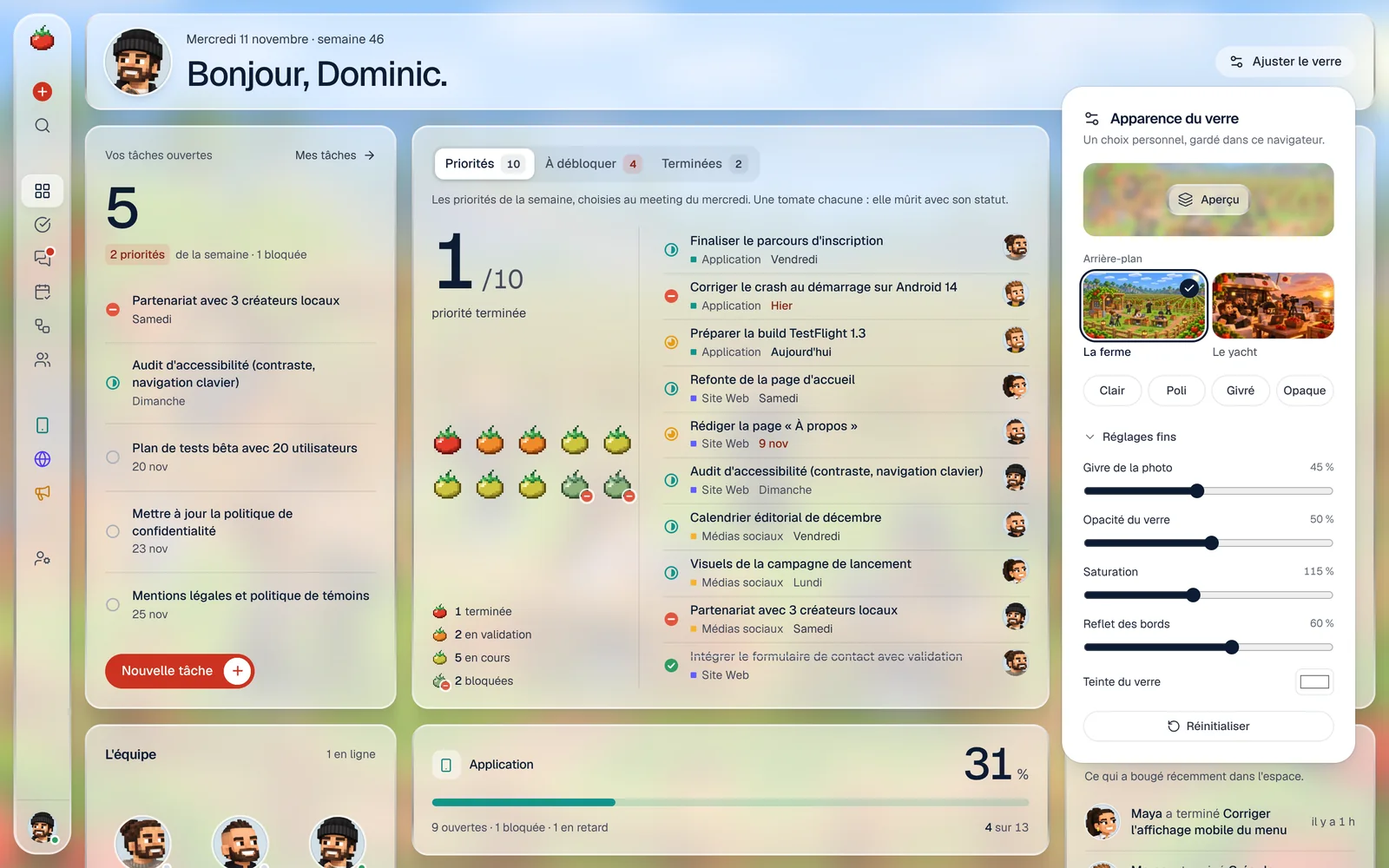
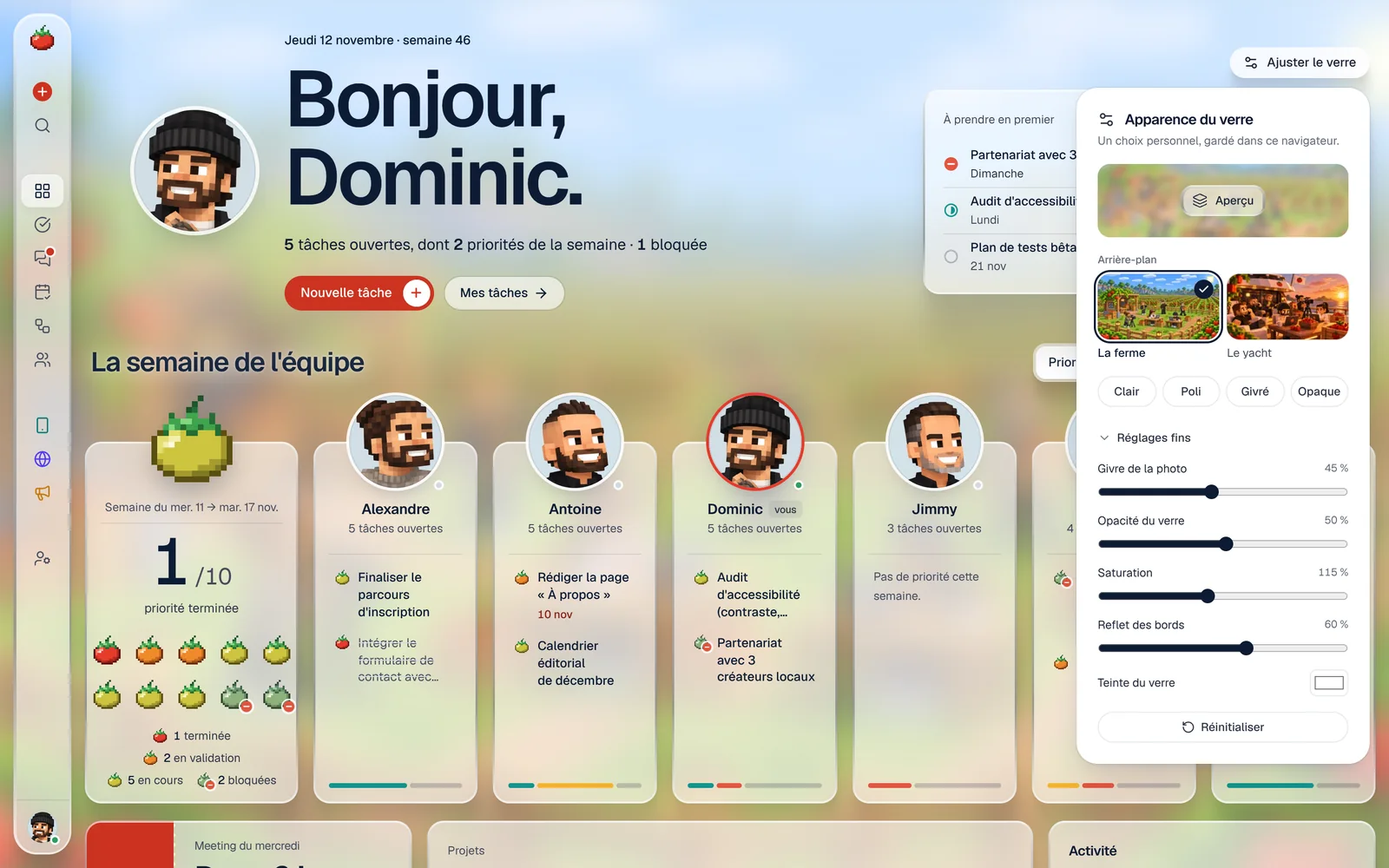
Docs: the dashboard as a page of three bands; screenshots retaken
DESIGN.md describes the greeting set on the picture, the team's week as a
line-up of cards under three tabs (with the load bar and its legend), and the
foot (the meeting as a ticket, the projects in columns, the activity); the
type scale, the brand and colour tables, the components and the references
follow. The contrast figures are measured again on the eight screens and both
scenes. README: the dashboard in one paragraph, the test list.

Claude-Session: https://claude.ai/code/session_01FogaosSJpqDW3pFqCh4GHN

diff --git a/docs/DESIGN.md b/docs/DESIGN.md
@@ -38,32 +38,31 @@ Au repos, la navigation est un rail d'icônes : le contenu a toute la place. On 
 
 ### Dashboard — « où en est-on ? »
 
-Un bento de tuiles de verre posées **directement sur l'image** : pas de feuille derrière elles, jamais de verre sur du verre. Chaque tuile est le verre (son anneau, sa face claire, son ombre) ; la photo, givrée, se voit entre les tuiles comme à travers elles. Le bento occupe toute la zone à côté de la navigation et s'aligne sur elle : même haut, même bas, et le même écart de 14 px que la fenêtre des autres écrans. Sur un écran haut, la dernière rangée prend la place qui reste ; sur un écran plus court, le bento défile sous une navigation qui ne bouge pas.
+Une page en **trois bandes qui ne se ressemblent pas**, posée directement sur l'image : pas de feuille derrière elle, jamais de verre sur du verre. La version d'avant était un mur de tuiles : chaque section était une boîte contenant une liste, tout parlait sur le même ton, et rien ne disait par où commencer. Ici chaque bande a sa forme : une phrase, puis des gens, puis trois objets. La page occupe toute la zone à côté de la navigation et s'aligne sur elle : même haut, même bas, et le même écart de 14 px que la fenêtre des autres écrans. Sur un écran haut, la salutation et le pied se partagent la place qui reste ; sur un écran plus court, la page défile sous une navigation qui ne bouge pas.
 
-**Chaque tuile a sa forme et sa façon de parler.** Un tableau de bord dont toutes les sections sont la même tuile contenant une liste se lit mal : rien n'y dit par où commencer. Ici, trois colonnes de lecture : moi et l'équipe à gauche, la semaine et les projets au milieu (deux fois plus large), le meeting et l'activité à droite. Quatre colonnes de grille à partir de 1280 px de place, deux en dessous, une sur téléphone.
+1. **La salutation**, écrite sur l'image, sans tuile : « Bonjour, Dominic. » en très grand (jusqu'à 112 px, sur deux lignes serrées), à côté d'un grand portrait. La page s'ouvre sur une phrase, pas sur une boîte. Au-dessus, la date et la semaine ; en dessous, où j'en suis, en une ligne (« **5** tâches ouvertes, dont **2** priorités de la semaine · **1** bloquée »), puis **Nouvelle tâche**, l'action principale de la page, et le chemin vers **Mes tâches**. À droite, la seule carte de la bande, « À prendre en premier » : mes trois prochaines tâches (les priorités, puis les retards, puis ce qui est en cours), dont le statut se change sur place. Une brume blanche derrière la bande, qui s'efface vers le bas et vers la navigation, garde les petites lignes lisibles sur les deux images. L'idée vient du tableau de bord de Koloc Cloud : une salutation typographique à côté d'un portrait plutôt qu'une tuile de plus.
+2. **La semaine de l'équipe**, en alignement : d'abord **la tomate de la semaine** (aussi mûre que la semaine est avancée ; sa carte porte le score), puis **une carte par partenaire**. Chaque tête — la tomate, un visage — dépasse de moitié au-dessus de sa carte ; la mienne est cerclée de tomate. Sous le prénom et le nombre de tâches ouvertes, ce que la vue choisie contient pour la personne ; au pied, sa **barre de charge** : un segment par statut de ses tâches ouvertes (en cours, en validation, bloquée, à faire), que le survol nomme. Un visage mène aux tâches de la personne ; une tâche s'ouvre d'un clic.
 
-Le bento reste régulier : les tuiles d'une rangée ont la même hauteur, les rangées se suivent sans trou, et aucune tuile n'est à moitié vide. Une tuile remplit la place qu'elle a avec son propre contenu : la liste des priorités donne sa hauteur à sa rangée, et les listes voisines montrent autant de lignes entières qu'il en tient (`.gw-fit`). Les lignes qui n'ont pas la place sont aussi hors du parcours clavier et des lecteurs d'écran.
+   **Trois onglets** changent ce que montrent toutes les cartes à la fois. Chacun porte son compte : la page les dit donc sans un clic.
+   - **Priorités** : le score en très grand (« 1/10 »), puis le **potager** : une tomate par priorité, qui mûrit avec son statut (verte à faire, tournante en cours, orangée en validation, rouge terminée ; pâlie et marquée du glyphe « bloqué » quand elle n'avance plus), rangées de la plus mûre à la plus verte, ce qui en fait aussi une barre d'avancement. Chaque tomate est un bouton qui ouvre sa tâche. Sur chaque carte, les priorités de la personne, chacune avec sa tomate.
+   - **À débloquer** : le nombre de tâches bloquées ou en retard dans toute l'équipe (le seul chiffre en rouge de la page : c'est celui qui demande quelque chose), ce dont il est fait, et à qui ça revient.
+   - **Terminées** : le chiffre de la semaine, celui de la semaine dernière, une barre par semaine (de mercredi à mardi) sur six semaines, la semaine en cours en teal, et qui a terminé quoi.
 
-1. **Salutation** : sur toute la largeur, avec le portrait de la personne, la date et la semaine, et « Ajuster le verre ».
-2. **Vos tâches ouvertes** : un grand chiffre, ce qu'il contient (priorités, retards, blocages), les tâches à prendre en premier (priorités, puis retards, puis ce qui est en cours) et **Nouvelle tâche**, l'action principale de la page.
-3. **La semaine de l'équipe**, la tuile autour de laquelle la page est construite. Elle se regarde de trois façons, par **trois onglets** qui portent chacun leur compte (la page les dit donc sans un clic), et chaque vue mène avec son grand chiffre :
-   - **Priorités** : le score en très grand (« 1/10 »), puis le **potager** : une tomate par priorité, qui mûrit avec son statut (verte à faire, tournante en cours, orangée en validation, rouge terminée ; pâlie et marquée du glyphe « bloqué » quand elle n'avance plus), rangées de la plus mûre à la plus verte, ce qui en fait aussi une barre d'avancement. Chaque tomate est un bouton qui ouvre sa tâche. À côté, la légende et la liste : statut (le glyphe se clique pour le changer), titre, projet, échéance, responsable. Changer un statut dans la liste fait mûrir la tomate.
-   - **À débloquer** : le nombre de tâches bloquées ou en retard dans toute l'équipe (le seul chiffre en rouge de la page : c'est celui qui demande quelque chose), ce dont il est fait, et les tâches, à un clic.
-   - **Terminées** : le chiffre de la semaine, celui de la semaine dernière, une barre par semaine (de mercredi à mardi) sur six semaines, la semaine en cours en teal, et ce qui a été terminé.
+   Les trois vues d'une carte sont posées l'une sur l'autre et une seule se voit : les cartes gardent la hauteur de la plus remplie, et la page ne saute pas quand on change d'onglet. Une carte montre au plus quatre tâches, puis un compte. Les tâches sans responsable ont leur propre carte, qui n'existe que s'il y en a.
+3. **Le pied** : trois objets de formes différentes, qui commencent et finissent ensemble.
+   - **Le meeting du mercredi est un billet** : sa date sur une souche tomate (le seul aplat de couleur de la page), puis dans combien de jours, les points à discuter, et l'entrée. Pendant un meeting le billet devient **sombre** (le sombre veut dire « en direct », ici comme sur la page du meeting) et montre l'horloge ; ensuite, « Terminé » et le chemin du récapitulatif.
+   - **Les projets** sur une seule feuille, en colonnes : le pourcentage en grand, une barre, les comptes (ouvertes, bloquées, en retard, « 4 sur 13 »). Côte à côte, ils se comparent d'un coup d'œil ; une colonne ouvre son projet.
+   - **L'activité** : qui a fait quoi, sur quelle tâche, et quand : un portrait, une phrase, l'heure. Elle montre autant d'événements entiers que sa hauteur le permet (`.gw-fit`) ; ceux qui n'ont pas la place sont aussi hors du parcours clavier et des lecteurs d'écran.
 
-   Les trois vues sont posées l'une sur l'autre et une seule se voit : la tuile garde la hauteur de la plus haute, et la page ne saute pas quand on change d'onglet. Sur une tuile étroite (téléphone), elles se suivent. Ces deux dernières vues ont d'abord été des tuiles à part ; réunies ici, elles laissent la page plus calme sans rien retirer.
-4. **Meeting du mercredi** : dans combien de jours, une règle de la semaine (les sept jours qui y mènent, aujourd'hui en tomate, le meeting au bout), les points à discuter, et l'entrée. Pendant un meeting la tuile devient **sombre** (le sombre veut dire « en direct », ici comme sur la page du meeting) et montre l'horloge ; ensuite, « Terminé » et le chemin du récapitulatif.
-5. **L'équipe** : un visage, un prénom, le nombre de tâches ouvertes ; un clic ouvre les tâches de la personne.
-6. **Projets** : une tuile par projet, empilées sous la semaine, avec son pourcentage en grand et une longue barre : l'une sous l'autre, les barres se comparent d'un coup d'œil. Un clic ouvre le projet. Quand la fenêtre est plus étroite, les tuiles passent côte à côte et la barre devient un anneau.
-7. **Activité** : qui a fait quoi, sur quelle tâche, et quand : un portrait, une phrase, l'heure. Elle montre autant d'événements que sa hauteur le permet.
+Quand la fenêtre est plus étroite, l'alignement passe sur plusieurs rangées (trois cartes de front, deux sur téléphone) sous la carte du score, qui prend alors toute la largeur, et le pied s'empile.
 
-Les chiffres comptent depuis zéro quand leur tuile arrive (et quand on change d'onglet), les tomates et les barres se posent l'une après l'autre, les barres des projets s'allongent ; rien de tout cela ne bouge avec « moins de mouvement ». Ce que montrent ces dessins existe aussi en mots : chaque tomate porte le titre, le statut et le responsable de sa tâche, chaque barre son compte, chaque projet « n tâches terminées sur m ». Les onglets sont de vrais onglets : les flèches passent de l'un à l'autre, et la vue qui n'est pas affichée est hors du parcours clavier et des lecteurs d'écran.
+Les deux lignes de la salutation montent de sous un cache, l'une après l'autre ; les chiffres comptent depuis zéro quand leur carte arrive (et quand on change d'onglet), les tomates et les barres se posent l'une après l'autre, les barres des projets s'allongent. Rien de tout cela ne bouge avec « moins de mouvement ». Ce que montrent ces dessins existe aussi en mots : chaque tomate porte le titre, le statut et le responsable de sa tâche, chaque barre son compte, la barre de charge sa répartition, chaque projet « n tâches terminées sur m ». Les onglets sont de vrais onglets : les flèches passent de l'un à l'autre, et la vue qui n'est pas affichée est hors du parcours clavier et des lecteurs d'écran.
 
 ![Dashboard](screenshots/dashboard.webp)
 
 ![Les deux autres vues de la semaine : à débloquer, terminées](screenshots/dashboard-onglets.webp)
 
-![Le dashboard pendant un meeting : la tuile sombre et son horloge](screenshots/dashboard-en-direct.webp)
+![Le pied du dashboard pendant un meeting : le billet sombre et son horloge](screenshots/dashboard-en-direct.webp)
 
 ### Projet — tableau et kanban
 
@@ -154,7 +153,7 @@ Hors de l'espace de travail, la scène est nette : la ferme en plein écran. Des
 
 ### Mobile
 
-Un seul bouton de menu, en haut à gauche de chaque écran : trois traits qui se replient en croix. Il ouvre la navigation en plein écran, sur une feuille de verre givré, avec des lignes à la taille du doigt. Quand le libellé d'un bouton principal n'a pas sa place (« Nouveau message », « Envoyer », « Nouveau workflow »), il se réduit à un disque tomate. La fenêtre de verre garde une petite marge autour d'elle, les tuiles du dashboard s'empilent et les quatre chiffres passent en grille 2 × 2, le tableau ne garde que le titre, le statut et le responsable, le kanban défile horizontalement. Les titres passent sur deux lignes plutôt que d'être tronqués. Les lignes de tâche s'adaptent à la largeur de leur conteneur (et non de l'écran).
+Un seul bouton de menu, en haut à gauche de chaque écran : trois traits qui se replient en croix. Il ouvre la navigation en plein écran, sur une feuille de verre givré, avec des lignes à la taille du doigt. Quand le libellé d'un bouton principal n'a pas sa place (« Nouveau message », « Envoyer », « Nouveau workflow »), il se réduit à un disque tomate. La fenêtre de verre garde une petite marge autour d'elle ; sur le dashboard la salutation rapetisse sans perdre son portrait, les cartes de l'équipe passent à deux de front sous celle du score, et le pied s'empile ; le tableau ne garde que le titre, le statut et le responsable, le kanban défile horizontalement. Les titres passent sur deux lignes plutôt que d'être tronqués. Les lignes de tâche s'adaptent à la largeur de leur conteneur (et non de l'écran).
 
 <img src="screenshots/mobile-dashboard.webp" alt="Dashboard sur téléphone" width="260" /> <img src="screenshots/mobile-menu.webp" alt="Le menu sur téléphone" width="260" /> <img src="screenshots/mobile-messages.webp" alt="Les messages sur téléphone" width="260" />
 
@@ -183,9 +182,9 @@ Du verre sur un paysage, et un contenu très sobre posé dessus. L'idée vient d
 
 | Élément de marque | Où | Règle |
 |---|---|---|
-| **Tomate** (`kit/pixel-tomato.tsx`) | Logo, préchargeur, connexion, potager des priorités de la semaine | Grille 16 × 16, dessinée en code, tailles multiples de 16. Dans le potager du dashboard il y en a une par priorité : elle **mûrit** en quatre étapes (verte → tournante → orangée → rouge) avec le statut de sa tâche. |
+| **Tomate** (`kit/pixel-tomato.tsx`) | Logo, préchargeur, connexion ; sur le dashboard, la tomate de la semaine et le potager des priorités | Grille 16 × 16, dessinée en code, tailles multiples de 16. Elle **mûrit** en quatre étapes (verte → tournante → orangée → rouge) : dans le potager il y en a une par priorité, mûre comme le statut de sa tâche ; la tomate de la semaine, en tête de l'alignement, est mûre comme la semaine est avancée. |
 | **Lettrage pixel** (`kit/pixel-text.tsx`) | Le nom, sur l'écran de connexion seulement | Alphabet 5 × 7 dessiné pixel par pixel. Jamais dans l'espace de travail. |
-| **Portraits** (`public/avatars`, `lib/avatars.ts`) | Partout où une personne apparaît : salutation, tâches, messages, équipe, navigation | Les portraits en pixel art des six partenaires, des carrés de 256 px. Un membre reçoit le sien par son nom (ou son prénom seul, quand le profil n'a que lui) ; sans portrait, l'avatar montre des initiales sur la couleur du membre. Six tailles, de 24 à 72 px : 28 px dans une ligne de tâche, 32 px dans un fil de messages, 56 à 64 px à côté de la salutation. |
+| **Portraits** (`public/avatars`, `lib/avatars.ts`) | Partout où une personne apparaît : salutation, tâches, messages, équipe, navigation | Les portraits en pixel art des six partenaires, des carrés de 256 px. Un membre reçoit le sien par son nom (ou son prénom seul, quand le profil n'a que lui) ; sans portrait, l'avatar montre des initiales sur la couleur du membre. Six tailles, de 24 à 72 px : 28 px dans une ligne de tâche, 32 px dans un fil de messages. Le dashboard les montre en grand : 84 à 168 px à côté de la salutation, 80 à 112 px en tête des cartes de l'équipe. |
 
 ![Préchargeur](screenshots/prechargeur.webp)
 
@@ -195,10 +194,10 @@ Du verre sur un paysage, et un contenu très sobre posé dessus. L'idée vient d
 |---|---|---|
 | **Scène** | `GlassBackdrop`, `.gw-scene` | La ferme (ou le yacht) en plein écran. Nette tant que le préchargeur est là, et sur l'écran de connexion. **Givrée** dès que l'application arrive : floutée (18 px), un peu plus saturée, sous un voile blanc de 40 %. C'est elle qui porte le givre, pas le verre. |
 | **Feuilles** | `.gw-glass` | La navigation et, sur tous les écrans sauf le dashboard, la fenêtre principale, en verre poli : un **anneau** métallique de 2,5 px (un dégradé vertical, blanc en haut pour la lumière, foncé aux trois quarts pour l'épaisseur, blanc en bas pour le rebond, évidé en son centre par un masque), une **face** translucide à 58 % avec une très légère diagonale, sans flou propre (on voit à travers elle la même photo givrée qu'autour), et une **ombre** en huit couches dont le flou double presque à chaque cran. Coins de 24 et 27 px. |
-| **Tuiles** | `.gw-panel` | Deux cas, pour ne jamais poser du verre sur du verre. **Sur le dashboard**, il n'y a pas de fenêtre : chaque tuile est le verre, posée sur l'image, avec le même anneau (2 px), la même face que les feuilles (58 % par défaut) et l'ombre en huit couches. **Dans une fenêtre** (messages, paramètres), une tuile n'est qu'une zone de la feuille : une face un peu plus pleine, une arête éclairée, une ombre à peine marquée, pas d'anneau. Coins de 17 px. |
+| **Tuiles** | `.gw-panel` | Deux cas, pour ne jamais poser du verre sur du verre. **Sur le dashboard**, il n'y a pas de fenêtre : chaque carte est le verre, posée sur l'image, avec le même anneau (2 px), la même face que les feuilles (58 % par défaut) et l'ombre en huit couches ; la salutation, elle, n'est sur aucun verre : elle est écrite sur l'image, sur une brume blanche. **Dans une fenêtre** (messages, paramètres), une tuile n'est qu'une zone de la feuille : une face un peu plus pleine, une arête éclairée, une ombre à peine marquée, pas d'anneau. Coins de 17 px. |
 | **Panneaux denses** | `.card-surface` | Tableaux, listes du meeting, colonnes du kanban : la même tuile, un peu plus remplie pour que le texte dense reste lisible. |
 | **En-tête de page** | `.glass` | Colle en haut de la fenêtre et floute ce qui défile dessous. |
-| **Sombre** | `.glass-dark`, `.gw-panel-live` | Réservé au meeting en direct : sa barre sur la page du meeting et sa tuile sur le dashboard. Le sombre veut dire « en direct ». |
+| **Sombre** | `.glass-dark`, `.gw-panel-live` | Réservé au meeting en direct : sa barre sur la page du meeting et son billet sur le dashboard. Le sombre veut dire « en direct ». |
 
 Tout dérive de cinq variables (`--gw-blur`, `--gw-opacity`, `--gw-saturation`, `--gw-edge`, `--gw-tint`) et d'une sixième qui s'en déduit, `--gw-scene-veil`, le voile de la photo. « Ajuster le verre » — sur le dashboard et en bas de la navigation — les règle : la scène (la ferme ou le yacht, les deux images de l'équipe), quatre préréglages (**Clair** : givre 25 %, verre 34 % ; **Poli** : 45 % et 50 %, l'aspect par défaut ; **Givré** : 70 % et 64 % ; **Opaque** : 80 % et 86 %) et des réglages fins repliés : givre de la photo, opacité du verre, saturation, reflet des bords (il dose l'anneau), teinte. Choisir une scène lui donne le givre qui lui convient (le yacht, plus sombre que les champs, vient avec un verre à 56 %) ; les préréglages et les curseurs ajustent à partir de là. Le choix est propre à chaque navigateur.
 
@@ -221,8 +220,8 @@ Règle technique : deux surfaces qui floutent ce qui est derrière elles ne s'em
 | Encre | `navy-900` | `#0D1B33` | Texte |
 | Gris | `navy-300` à `navy-600` | — | Texte secondaire, icônes, bordures. Peu saturés : le texte secondaire est gris, pas bleu. Sur le verre, le texte secondaire est en `navy-600` (voir « Encre sur verre »). |
 | Papier | `--background` | `#F2F0EB` | Sous les écrans d'erreur, et là où le flou n'est pas pris en charge |
-| Teal | `teal-500` | `#12948C` | L'avancement : la barre de la semaine en cours et celles des projets, sur le dashboard |
-| Tomate | `tomato-600` | `#CC3320` | Le **bouton principal**, partout ; le repère « Nouvelle tâche » de la navigation ; la pastille des priorités de la semaine ; en `tomato-700`, le chiffre des tâches à débloquer du dashboard |
+| Teal | `teal-500` | `#12948C` | L'avancement : sur le dashboard, la barre de la semaine en cours, celles des projets, et la part « en cours » des barres de charge |
+| Tomate | `tomato-600` | `#CC3320` | Le **bouton principal**, partout ; le repère « Nouvelle tâche » de la navigation ; la pastille des priorités de la semaine ; sur le dashboard, la souche du billet du meeting (le seul aplat de couleur de la page), le cercle autour de mon visage et, en `tomato-700`, le chiffre des tâches à débloquer |
 | Statuts | teal, jaune, corail, vert | — | Uniquement dans les glyphes de statut, l'étoile des priorités et les alertes (retard, blocage) |
 
 Les couleurs d'identification restent discrètes : une petite icône au trait pour un projet ; pour un membre, son portrait, ou à défaut une pastille pâle avec ses initiales.
@@ -241,10 +240,11 @@ Geist Sans. Chiffres tabulaires pour les compteurs et les dates. Une échelle co
 
 | Usage | Taille |
 |---|---|
-| Le score de la semaine (dashboard) | 76 – 118 px, 500 |
-| Les grands chiffres du dashboard | 54 – 92 px, 500, selon la largeur de leur tuile |
-| Pourcentage d'un projet | 34 – 46 px, 500 |
-| Salutation du dashboard | 26 – 36 px, 500 |
+| Salutation du dashboard | 42 – 112 px, 600, interlettrage −0,045 em, interligne 0,94 : ce qu'il y a de plus gros dans l'application |
+| Le score de la semaine (dashboard) | 68 – 108 px, 500 |
+| Pourcentage d'un projet, jour du billet, horloge du meeting | 40 – 68 px, selon la largeur de leur carte |
+| « Dans 6 jours », sur le billet du meeting | 26 – 36 px, 600 |
+| Titre d'une bande du dashboard (« La semaine de l'équipe ») | 24 – 34 px, 600 |
 | Titre du meeting | 22 – 26 px, 600 |
 | Titre de page, de groupe | 15 px, 600 |
 | Corps, lignes de tâche, contrôles, titres de section | 13 px (14 px dans les formulaires) |
@@ -259,12 +259,16 @@ Geist Sans. Chiffres tabulaires pour les compteurs et les dates. Une échelle co
 - **Infobulle des avatars** (`ui/animated-tooltip.tsx`) : sur les groupes d'avatars et les filtres par membre, le nom et le rôle surgissent avec un ressort et penchent avec le pointeur. Elle est rendue dans un portail : un tableau ou un panneau défilant ne la coupe jamais.
 - **Séparations** : des filets à 10 % d'encre entre les lignes d'une tuile. Les tuiles se détachent par leur arête éclairée et une ombre très courte, jamais par un contour.
 - **Avancement** : un filet de 3 px, encre sur gris, dans les listes ; une barre de 5 px, teal sur teal pâle, sur le dashboard (`kit/progress.tsx`).
-- **Grand chiffre** (`dashboard/figure.tsx`) : un par tuile, ce sur quoi l'œil se pose ; sa taille suit la largeur de la tuile (unités de conteneur), et il compte jusqu'à sa valeur.
+- **Salutation** (`dashboard/hero.tsx`) : du texte posé sur l'image, sans carte. Sa taille suit la largeur de la page (unités de conteneur), ses deux lignes sont presque collées, et une brume blanche derrière elle remplace le verre.
+- **Alignement de l'équipe** (`dashboard/week-lineup.tsx`) : une rangée de cartes dont la tête (la tomate de la semaine, un visage) est à cheval sur le bord du haut, moitié dehors, moitié dedans ; la rangée garde la place qu'il faut au-dessus d'elle. La carte du score est un peu plus large que celles des partenaires.
+- **Barre de charge** : au pied d'une carte de partenaire, 5 px de haut, un segment par statut de ses tâches ouvertes, large comme leur nombre : teal en cours, jaune en validation, corail bloquée, gris à faire. Le survol en donne la légende.
+- **Billet** (`dashboard/meeting-ticket.tsx`) : une souche tomate avec le jour en grand, une perforation en pointillé, puis le corps du billet. C'est une carte de verre comme les autres ; seule sa souche est un aplat.
+- **Grand chiffre** (`dashboard/figure.tsx`) : un par carte, ce sur quoi l'œil se pose ; sa taille suit la largeur de la carte (unités de conteneur), et il compte jusqu'à sa valeur.
 - **Potager** (`dashboard/potager.tsx`) : une tomate de 32 px par priorité, cinq par rangée ; au survol elle se soulève et dit son titre.
-- **Onglets de la semaine** (`dashboard/week-hero.tsx`) : un groupe de pastilles, l'onglet choisi en blanc ; chacun porte son compte, teinté de tomate quand quelque chose attend derrière.
+- **Onglets de la semaine** (`dashboard/week-lineup.tsx`) : un groupe de pastilles sur son propre bout de verre, l'onglet choisi en blanc ; chacun porte son compte, teinté de tomate quand quelque chose attend derrière.
 - **Barres de la semaine** (`dashboard/week-bars.tsx`) : six barres, la semaine en cours en teal, les autres en gris ; le compte posé sur chaque barre, la date dessous.
 - **Défilement** : seule la fenêtre principale défile.
-- **Mouvement** : les tuiles se posent l'une après l'autre (elles montent de 12 px et deviennent nettes, 480 ms, 45 ms d'écart) ; la coche et l'étoile « rebondissent » une fois ; la carte glissée se soulève ; un message se pose dans le fil. Sur le dashboard, les chiffres comptent depuis zéro (900 ms) quand leur tuile arrive ou quand on change d'onglet, les tomates et les barres se posent l'une après l'autre, les barres des projets s'allongent. Tout est neutralisé avec `prefers-reduced-motion`.
+- **Mouvement** : les tuiles se posent l'une après l'autre (elles montent de 12 px et deviennent nettes, 480 ms, 45 ms d'écart) ; la coche et l'étoile « rebondissent » une fois ; la carte glissée se soulève ; un message se pose dans le fil. Sur le dashboard, les deux lignes de la salutation montent de sous un cache (620 ms, 70 ms d'écart), les chiffres comptent depuis zéro (900 ms) quand leur carte arrive ou quand on change d'onglet, les tomates et les barres se posent l'une après l'autre, les barres des projets s'allongent. Tout est neutralisé avec `prefers-reduced-motion`.
 - **Averse de tomates** (`app/tomato-rain.tsx`) : une tâche terminée fait tomber de huit à dix-huit tomates du logo, selon la largeur de l'écran. La largeur est découpée en tranches et chaque tomate tombe dans la sienne : jamais d'amas. Trois tailles (20, 28, 36 px), les petites plus lentes, une légère dérive et une rotation. Elles ne prennent aucun clic, et jusqu'à trois averses se superposent quand on enchaîne.
 - **Arrivée et préchargeur** : à l'ouverture, la scène est seule à l'écran, nette ; ni navigation ni fenêtre. Par-dessus, une petite plaque de verre givré, haut dans le ciel pour ne cacher personne : la tomate y tombe, s'écrase, fait un salto (elle tourne autour d'elle-même, pas autour de sa base), puis alterne petit saut et salto tant que ça charge ; les sauts sont rythmés comme un vrai lancer (vite au départ, lent en haut). Elle reste au moins 3,25 s — la chute et deux tours de saut et de salto : le temps de regarder l'image. Puis la plaque s'en va, l'image reste et se givre (le flou et le voile arrivent en 900 ms), la navigation apparaît en fondu (500 ms) et les tuiles se posent l'une après l'autre. Tout est mesuré en « pixels de tomate » (7 px, 6 px sur téléphone), en CSS pur.
 
@@ -279,7 +283,7 @@ Geist Sans. Chiffres tabulaires pour les compteurs et les dates. Une échelle co
 | `components/auth` | `LoginScreen` (la scène et la carte), `LoginForm` (lien magique, mot de passe) |
 | `components/settings` | Paramètres des administrateurs : tableau des membres, invitation, rôles |
 | `components/tasks` | `TaskLine` (ligne compacte réutilisée partout), `TaskSheet`, menus contextuels, `QuickAdd` |
-| `components/dashboard` | `Panel` (une tuile de verre), `Figure` (le grand chiffre qui compte) et les tuiles : `MyWeek`, `WeekHero` (la semaine en trois onglets, avec son `Potager` et ses `WeekBars`), `MeetingTile`, `TeamFaces`, `ProjectCards`, `ActivityFeed` |
+| `components/dashboard` | Les trois bandes de la page : `Hero` (la salutation), `WeekLineup` (la semaine de l'équipe en cartes et en trois onglets, avec son `Potager` et ses `WeekBars`), puis le pied : `MeetingTicket`, `ProjectCards`, `ActivityFeed`. Et leurs briques : `Panel` (une carte de verre), `Figure` (le grand chiffre qui compte) |
 
 Règle de composition : une information = un composant, réutilisé partout. Le statut d'une tâche a la même apparence dans le tableau, le kanban, le dashboard et le meeting.
 
@@ -289,8 +293,9 @@ Plusieurs briques viennent de composants que l'équipe a choisis comme référen
 
 | Référence | Ce que c'est devenu | Où |
 |---|---|---|
-| Adjustable glass dashboard | Le principe (une image, des feuilles et des tuiles de verre, des réglages) et la composition du dashboard | `globals.css`, `lib/glass.ts`, `components/dashboard` |
+| Adjustable glass dashboard | Le principe : une image, des feuilles et des tuiles de verre, des réglages | `globals.css`, `lib/glass.ts`, `components/app/glass.tsx` |
 | Verre poli (Koloc Cloud, `ui/verre.css`) | La matière : anneau métallique évidé, face translucide, ombre en huit couches | `globals.css` (`.gw-glass`, `.gw-panel`) |
+| Tableau de bord de Koloc Cloud | L'ouverture du dashboard : une salutation typographique en très grand à côté d'un portrait, dont les lignes montent de sous un cache | `dashboard/hero.tsx`, `globals.css` (`.dash-hero`, `.dash-hello`) |
 | Interactive workflow blueprint | Le canevas des workflows | `ui/interactive-workflow-blueprint.tsx` |
 | Sidebar (Wensity) | La navigation repliable, sa pastille qui glisse | `ui/sidebar.tsx`, `app/sidebar.tsx` |
 | Menu button (Origin UI) | Le bouton de menu du téléphone | `ui/menu-toggle.tsx` |
@@ -303,4 +308,4 @@ Plusieurs briques viennent de composants que l'équipe a choisis comme référen
 
 ### Accessibilité
 
-Navigation complète au clavier, focus visible (anneau teal), libellés pour les boutons-icônes, zones tactiles confortables sur mobile, états jamais portés par la couleur seule (glyphe + libellé). Le bouton de menu annonce son état (`aria-expanded`). La navigation ne dépend pas du survol : au clavier, le rail se parcourt tel quel (chaque entrée garde son nom, et son infobulle au focus) et la tomate, qui est alors un bouton, l'épingle ouverte ; sur un écran tactile, toucher la tomate fait de même. Le fil des messages est une région `log`, la saisie et chaque bouton ont un libellé, et l'averse de tomates est ignorée des lecteurs d'écran. Avec « moins de mouvement », la carte de connexion ne s'incline plus et ses lumières s'éteignent, la pastille de navigation et les infobulles apparaissent sans ressort, la navigation s'ouvre sans glisser, et aucune tomate ne tombe. L'avancement des projets, les barres de la semaine et les tomates du potager ont un équivalent textuel. Sur du verre, le contraste dépend de l'image derrière : il est donc mesuré, pas déduit des couleurs du thème. Chaque morceau de texte est comparé aux pixels réellement derrière lui, sur une capture où le texte est rendu transparent, et c'est le pire endroit du mot qui compte (le 5e centile de ses pixels), pas sa moyenne. Avec les réglages par défaut, sur les huit écrans (623 morceaux de texte par scène), tout dépasse le seuil AA de 4,5:1. Sur la ferme : 8:1 et plus pour le texte principal, 5,2:1 au plus bas pour le texte secondaire. Sur le yacht, plus sombre et servi avec un verre un peu plus plein : 7:1 et 4,9:1. Le blanc sur le bouton tomate est à 5,2:1. `e2e/readability.spec.ts` refait cette mesure à chaque passage des tests, sur quatre écrans et les deux scènes. Le préréglage « Clair » passe sous le seuil pour le texte secondaire : c'est un goût, pas le réglage de lecture. « Opaque » garantit le contraste en toutes circonstances.
+Navigation complète au clavier, focus visible (anneau teal), libellés pour les boutons-icônes, zones tactiles confortables sur mobile, états jamais portés par la couleur seule (glyphe + libellé). Le bouton de menu annonce son état (`aria-expanded`). La navigation ne dépend pas du survol : au clavier, le rail se parcourt tel quel (chaque entrée garde son nom, et son infobulle au focus) et la tomate, qui est alors un bouton, l'épingle ouverte ; sur un écran tactile, toucher la tomate fait de même. Le fil des messages est une région `log`, la saisie et chaque bouton ont un libellé, et l'averse de tomates est ignorée des lecteurs d'écran. Avec « moins de mouvement », la carte de connexion ne s'incline plus et ses lumières s'éteignent, la pastille de navigation et les infobulles apparaissent sans ressort, la navigation s'ouvre sans glisser, et aucune tomate ne tombe. L'avancement des projets, les barres de la semaine et les tomates du potager ont un équivalent textuel. Sur du verre, le contraste dépend de l'image derrière : il est donc mesuré, pas déduit des couleurs du thème. Chaque morceau de texte est comparé aux pixels réellement derrière lui, sur une capture où le texte est rendu transparent, et c'est le pire endroit du mot qui compte (le 5e centile de ses pixels), pas sa moyenne. Avec les réglages par défaut, sur les huit écrans (506 morceaux de texte par scène), tout dépasse le seuil AA de 4,5:1. Sur la ferme : 8:1 et plus pour le texte principal, 5:1 au plus bas pour le texte secondaire. Sur le yacht, plus sombre et servi avec un verre un peu plus plein : 6,4:1 et 4,9:1. Le texte écrit directement sur l'image, sans verre (la salutation du dashboard et le titre de sa deuxième bande, de grands titres dont le seuil est 3:1), tient 5,6:1 sur la ferme et 4,5:1 sur le yacht, grâce à la brume et au halo blanc derrière lui. Le dashboard a aussi été mesuré à 1440 px (en haut et en bas de page) et sur téléphone : rien sous le seuil. Le blanc sur le bouton tomate est à 5,2:1. `e2e/readability.spec.ts` refait cette mesure à chaque passage des tests, sur quatre écrans et les deux scènes. Le préréglage « Clair » passe sous le seuil pour le texte secondaire : c'est un goût, pas le réglage de lecture. « Opaque » garantit le contraste en toutes circonstances.

diff --git a/README.md b/README.md
@@ -8,7 +8,7 @@ Le QG de l'équipe Prospero : nos projets, qui fait quoi, et le **meeting du mer
 
 | | |
 |---|---|
-| **Dashboard** | L'état des projets en 30 secondes, dans un bento de tuiles de verre de formes différentes, posées directement sur l'image, de la même hauteur que la navigation : au centre, la semaine de l'équipe en trois onglets (les priorités avec leur score et un potager, une tomate par priorité qui mûrit avec son statut ; ce qui est à débloquer ; ce qui a été terminé), autour vos tâches et leur grand chiffre, le prochain meeting et ses points à discuter, les visages de l'équipe, les projets et leurs barres, l'activité récente. |
+| **Dashboard** | L'état des projets en 30 secondes, sur une page en trois bandes posée directement sur l'image, de la même hauteur que la navigation. En haut, une salutation en très grand à côté de votre portrait, où vous en êtes en une phrase, et vos trois tâches à prendre en premier. Au milieu, la semaine de l'équipe : la tomate de la semaine (elle mûrit avec le score) puis une carte par partenaire, son visage au-dessus, sa charge au pied ; trois onglets changent ce que montrent les cartes (les priorités et leur potager, une tomate par priorité ; ce qui est à débloquer ; ce qui a été terminé). En bas, le prochain meeting en billet, les projets en grands pourcentages, l'activité récente. |
 | **Projets** | Un tableau structuré (façon Monday) et un kanban (façon Linear) sur les mêmes données : édition en ligne, glisser-déposer, filtres, tri, archivage. |
 | **Tâches** | Responsable, statut, priorité, échéance, description, sous-tâches, commentaires et historique des changements. Une tâche terminée fait tomber une petite averse de tomates. |
 | **Mes tâches** | La vue du matin : mes priorités, en retard, en cours, à venir, complétées récemment. |
@@ -167,7 +167,7 @@ e2e/                        tests Playwright
 
 - `npm run lint`, `npm run typecheck`, `npm run build` : sans erreur ni avertissement.
 - `npm run db:test` : 139 assertions pgTAP (droits, RLS, déclencheurs, invitations, workflows, messagerie).
-- `npm run test:e2e` : 45 scénarios en mode démo — tableau, kanban, filtres et archivage, raccourcis et panneau de tâche, synchronisation entre onglets, meeting complet, workflows, réglages du verre, navigation (survol, épingle, téléphone), connexion, paramètres des membres, messagerie (écrans et règles), portraits, averse de tomates, arrivée sur la scène, bento varié mais régulier posé sur l'image (jamais de verre sur du verre) et aligné sur la navigation, semaine de l'équipe en trois onglets (potager, à débloquer, terminées), grands chiffres du dashboard, tuile du meeting (compte à rebours, puis horloge en direct), lisibilité du texte sur le verre (contraste mesuré sur les deux scènes).
+- `npm run test:e2e` : 45 scénarios en mode démo — tableau, kanban, filtres et archivage, raccourcis et panneau de tâche, synchronisation entre onglets, meeting complet, workflows, réglages du verre, navigation (survol, épingle, téléphone), connexion, paramètres des membres, messagerie (écrans et règles), portraits, averse de tomates, arrivée sur la scène, dashboard en trois bandes posé sur l'image (jamais de verre sur du verre) et aligné sur la navigation, semaine de l'équipe en cartes et en trois onglets (potager, à débloquer, terminées, barre de charge), salutation et actions du dashboard, billet du meeting (compte à rebours, puis horloge en direct), lisibilité du texte sur le verre (contraste mesuré sur les deux scènes).
 - Contre une instance Supabase locale : connexion par mot de passe et par lien magique, persistance en base, propagation en temps réel entre deux navigateurs (statut, commentaire, glisser-déposer, meeting en direct, canevas de workflow), présence, compte non invité bloqué puis activé depuis les paramètres, déconnexion ; messagerie à trois comptes (livraison en direct, conversation directe invisible pour un tiers dans l'interface, le temps réel et l'API, lecture persistée, suppression propagée).
 
 ## Limites connues du MVP
